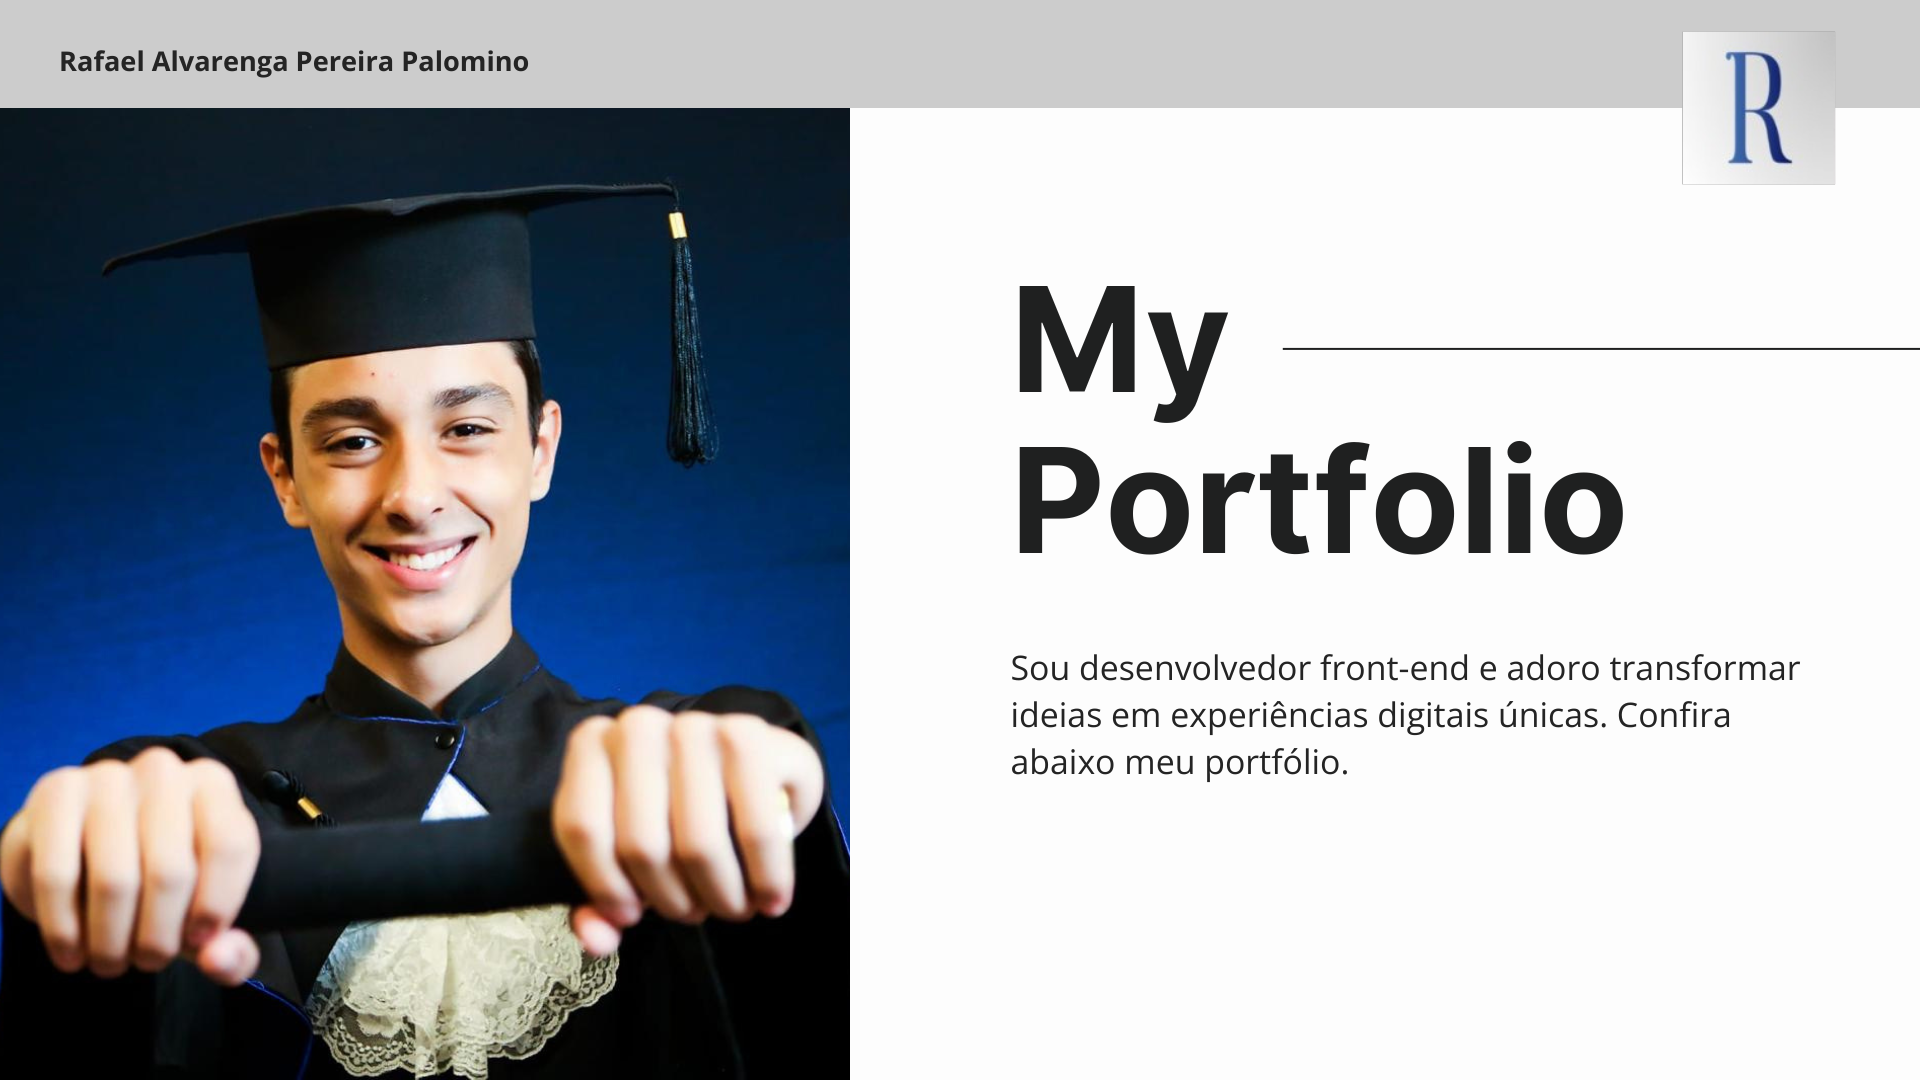
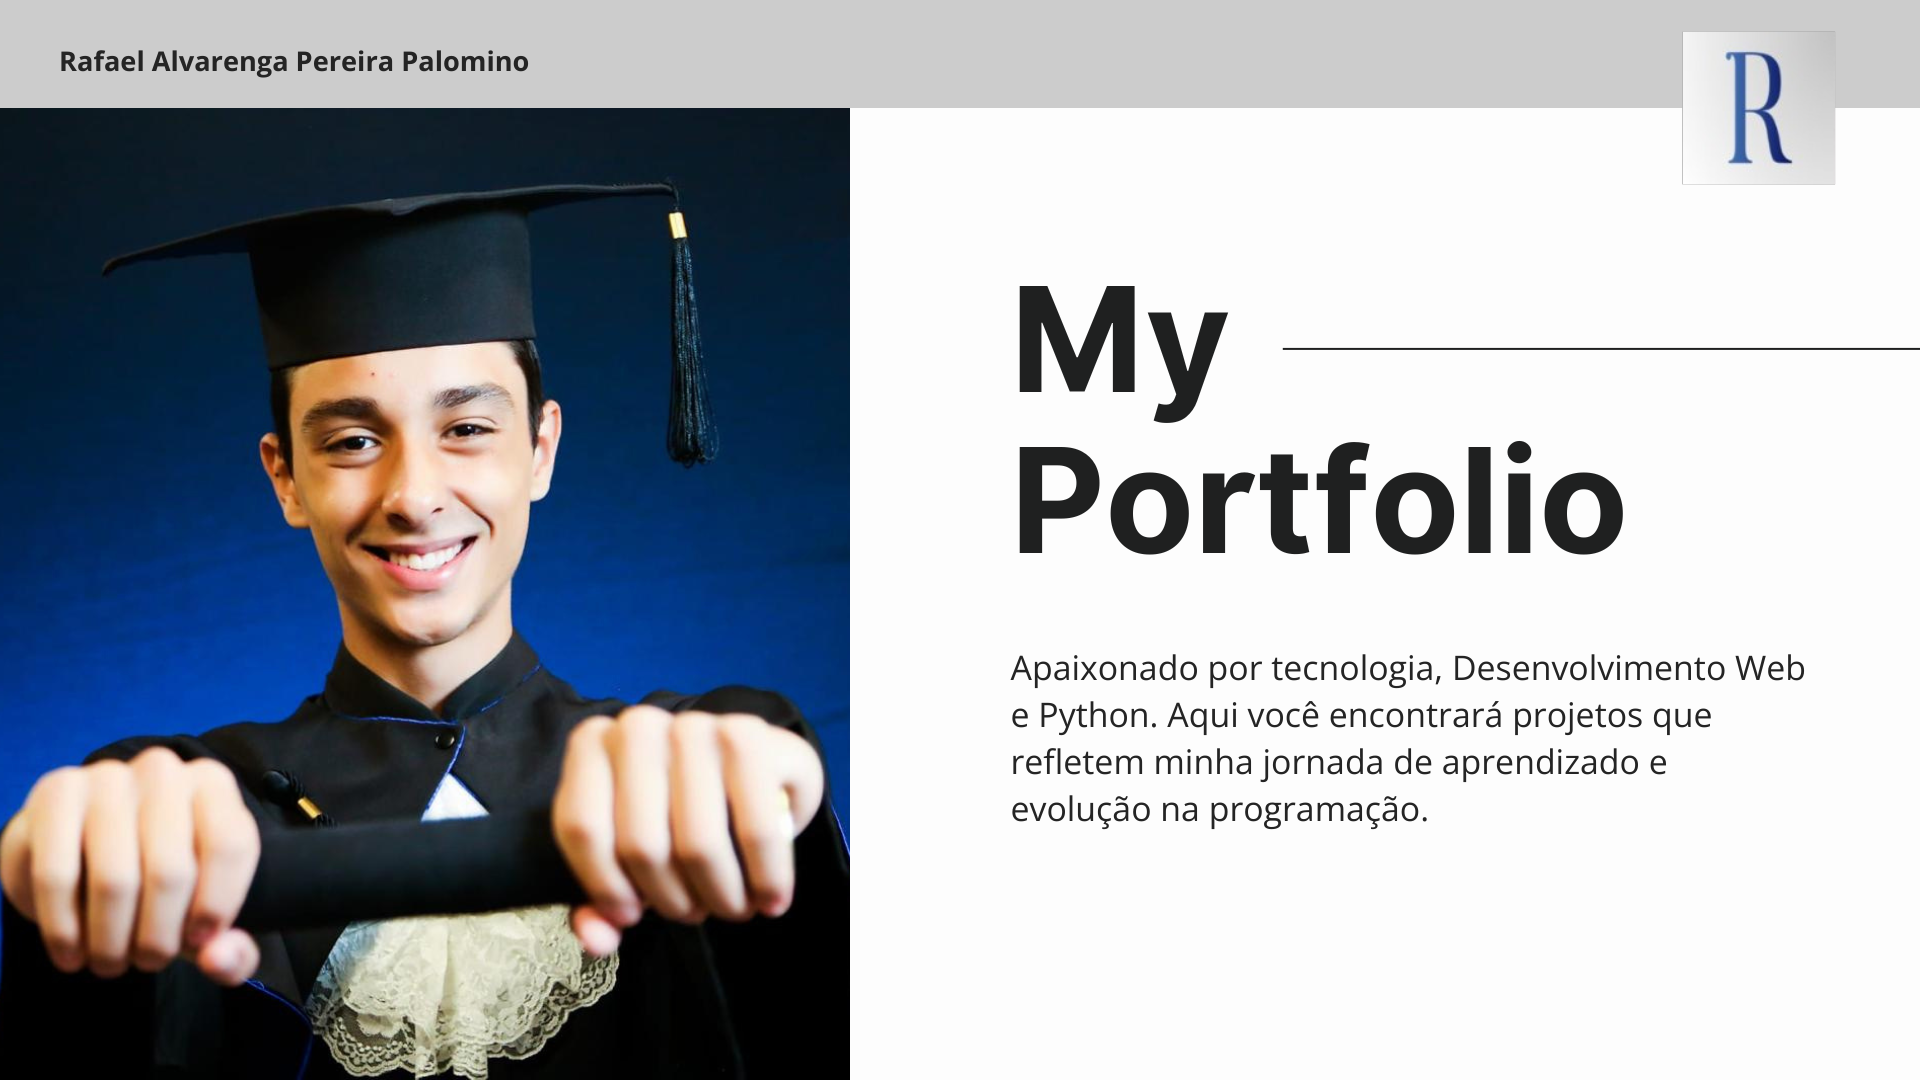
Atualizando informações na seção "Sobre mim" e corrigindo o curso de graduação.

Changed region(s): [[0.5312, 0.6111, 0.9375, 0.7639]]

diff --git a/index.html b/index.html
@@ -287,7 +287,7 @@
         <p>Olá! Meu nome é Rafael Alvarenga.
             Sou apaixonado por tecnologia e desenvolvimento de software. Meu interesse pela programação começou com a criação de interfaces utilizando HTML, CSS e JavaScript, e ao longo do tempo também desenvolvi afinidade com Python e outras tecnologias voltadas ao desenvolvimento.
             Gosto de aprender constantemente, enfrentar novos desafios e transformar ideias em projetos práticos. Tenho interesse especial em Desenvolvimento Web, Python e na construção de soluções que possam gerar impacto positivo para as pessoas.
-            Atualmente, sigo aprimorando minhas habilidades por meio de cursos, projetos pessoais e estudos contínuos, sempre buscando evoluir como profissional da área de tecnologia.
+        Atualmente, sigo aprimorando minhas habilidades por meio de cursos, projetos pessoais e estudos contínuos, sempre buscando evoluir como profissional da área de tecnologia.
         </p>  
         <div class="about__icons">
           <i class="bi bi-translate"></i>
@@ -312,8 +312,8 @@
       <div class="col1">
         <div class="row1">
           <h3>Formação</h3>
-          <h4>Graduando em Sistemas de Informação</h4>
-          <span>7° período 2025 - Atualmente</span>
+          <h4>Graduando em Análise e Desenvolvimento de Sistemas</h4>
+          <span>5° período 2026 - Atualmente</span>
           <div class="about__icons">
             <i class="bi bi-bank"></i>
             <span>Universidade Uniube</span>
